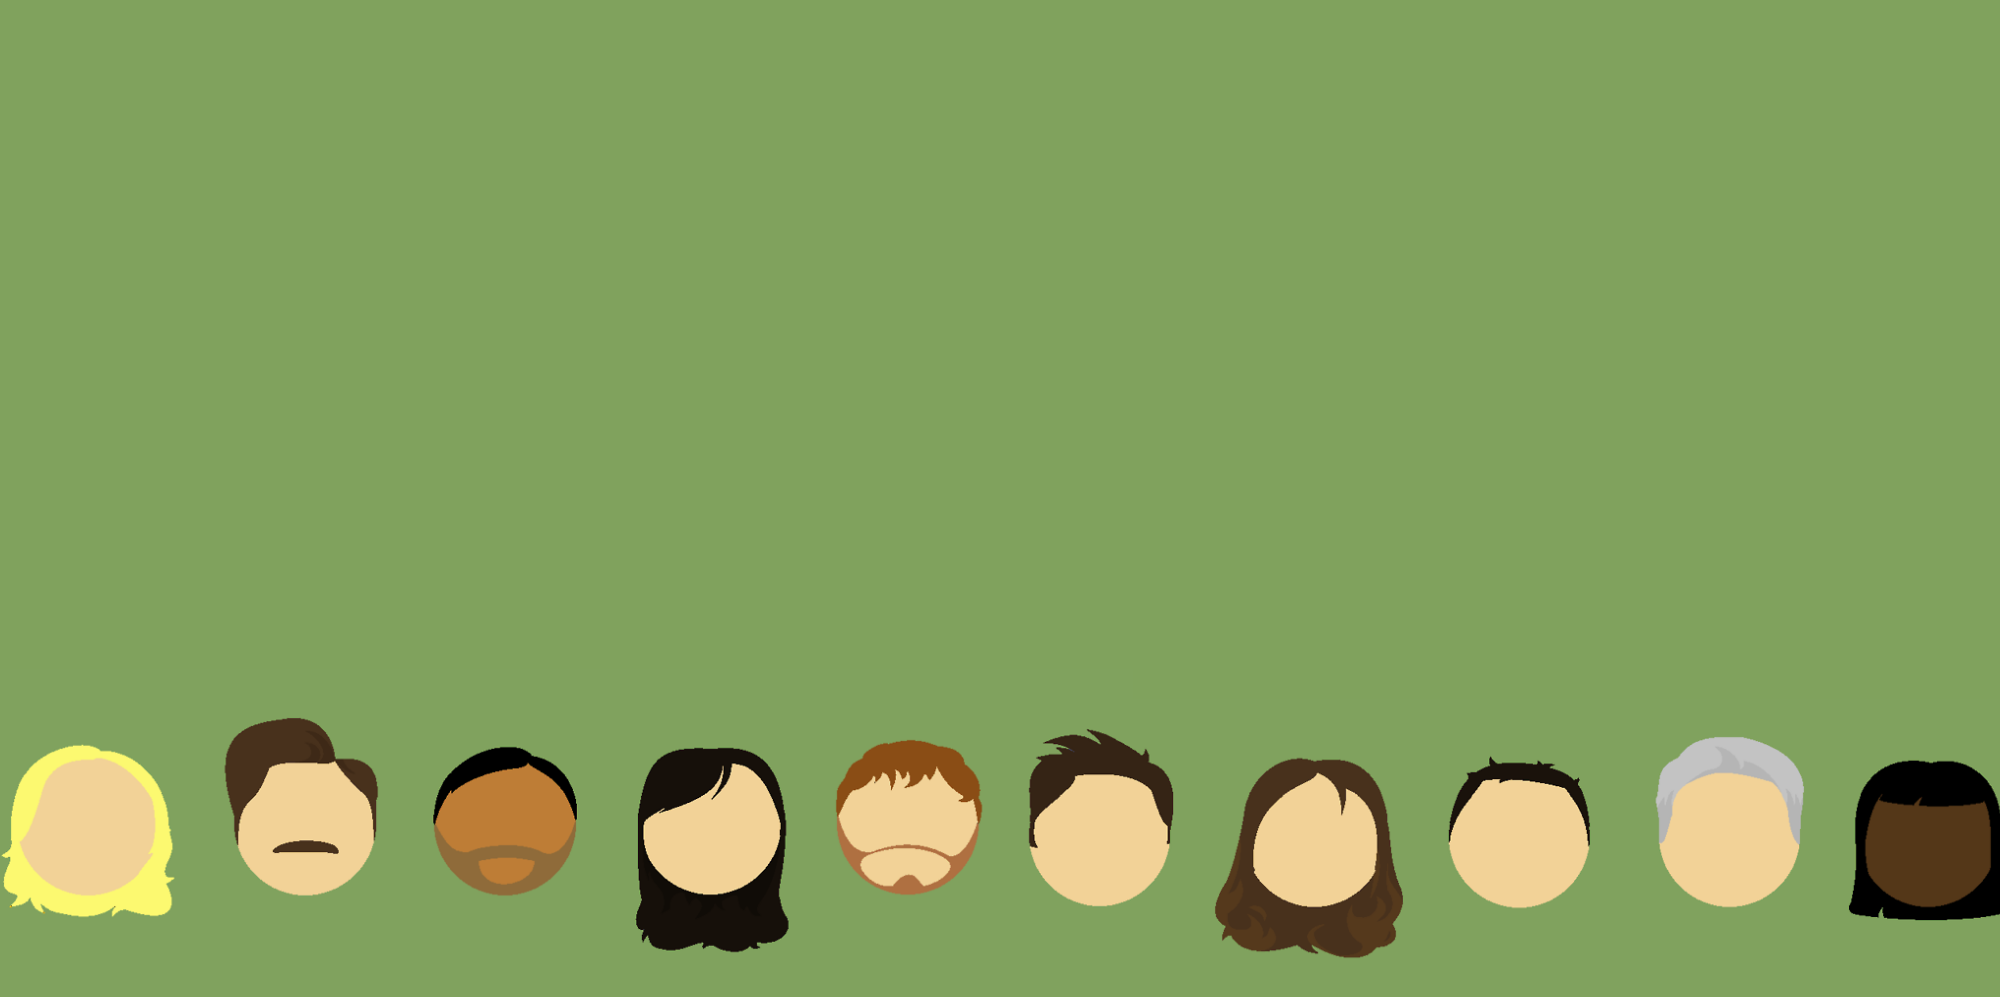
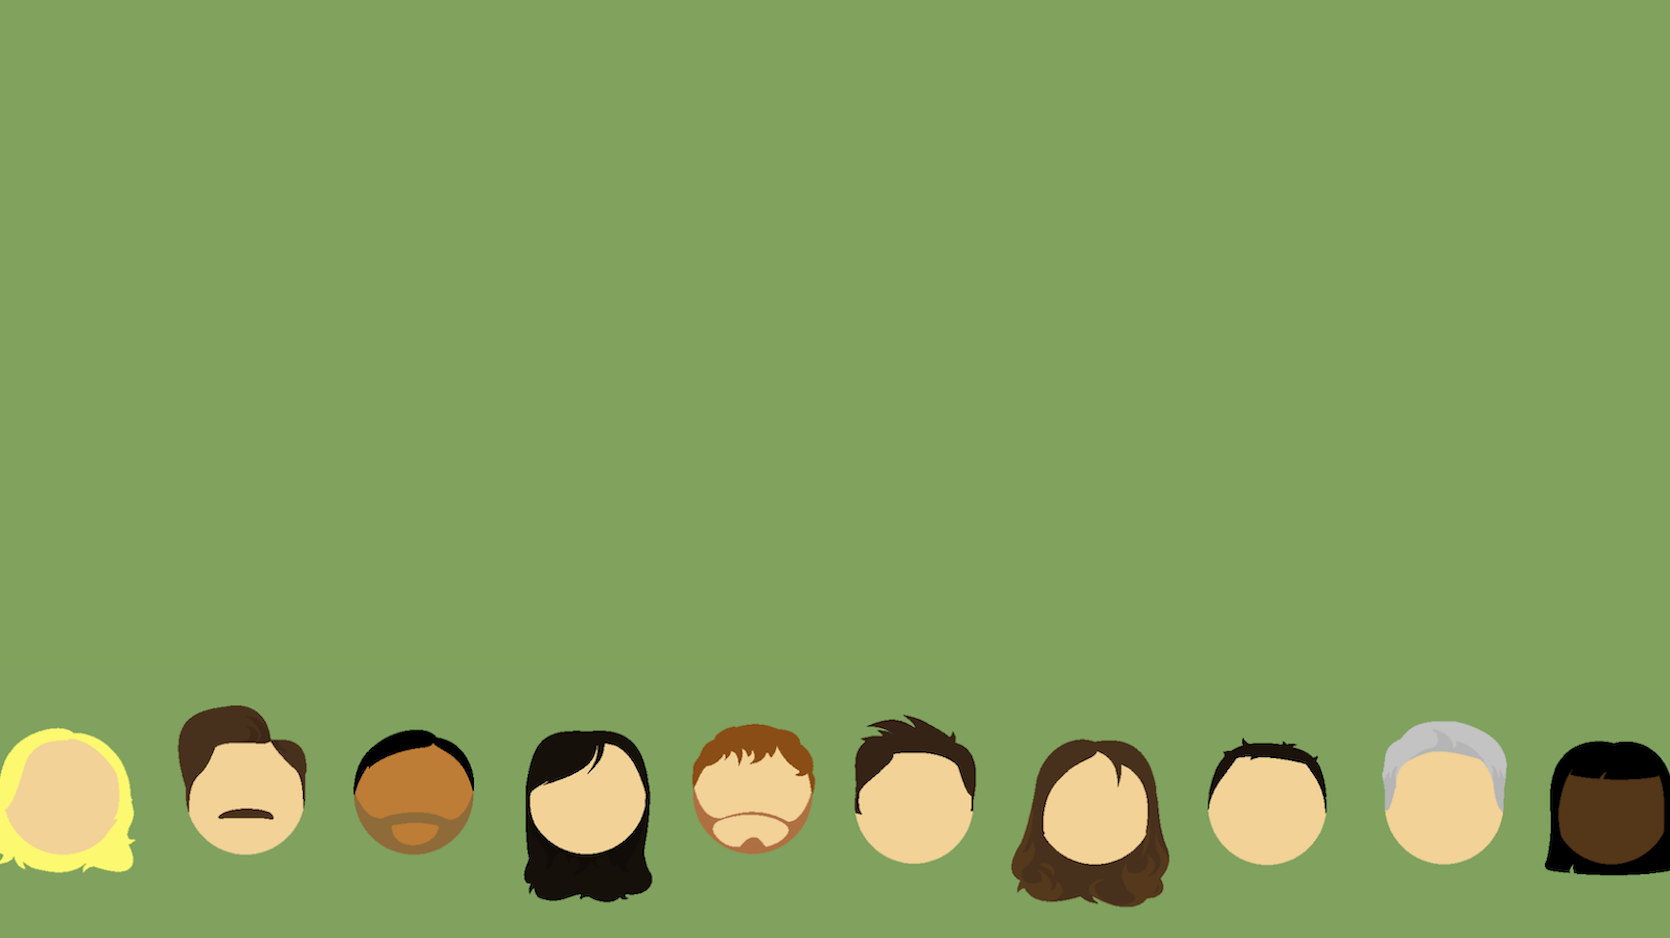
adding mobile responsiveness

diff --git a/style.css b/style.css
@@ -54,7 +54,8 @@ button:focus{
 
 .jumbotron{
     background: url("images/banner3.png") center center no-repeat;
-    height:400px;
+    background-size:cover;
+    height: 375px;
     margin-bottom:10px;
 }
 
@@ -68,3 +69,23 @@ button:focus{
     float:left;
     margin:5px;
 }
+
+@media only screen and (max-width: 600px) {
+    .jumbotron{
+        width:100%;
+        height:auto;
+    }
+    body{
+        font-size: 10px;
+    }
+    button{
+        font-size:10px;
+    }
+    #buttons{
+        width:100%;
+    }
+    .container{
+        width:100%;
+        height:600px;
+    }
+  }
